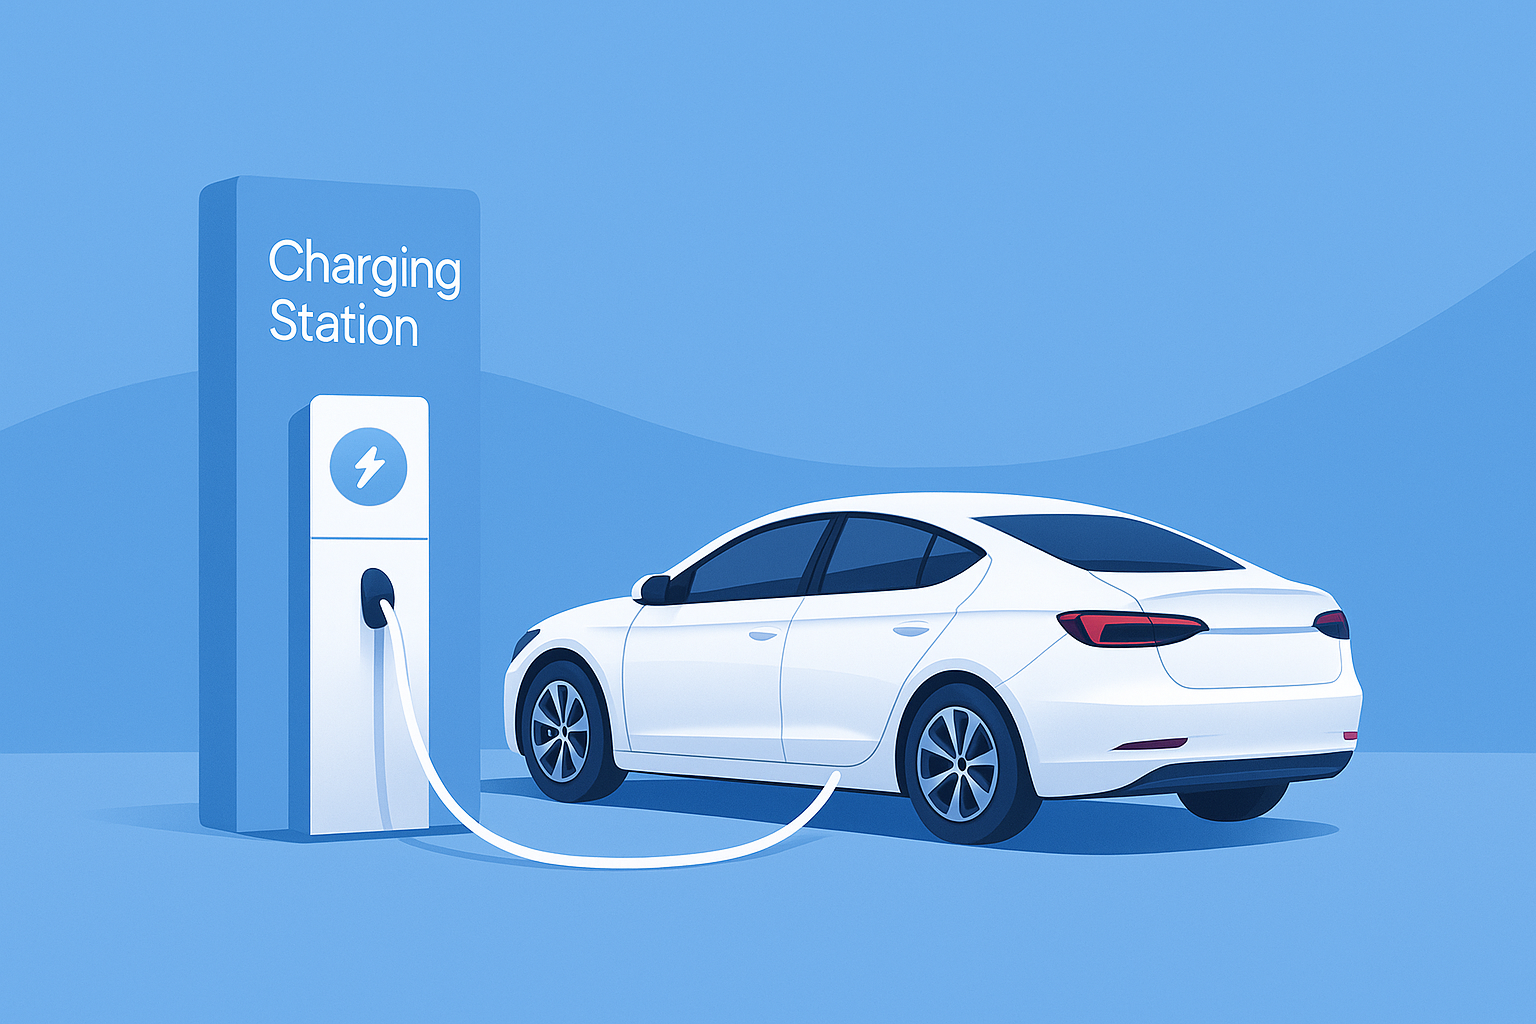
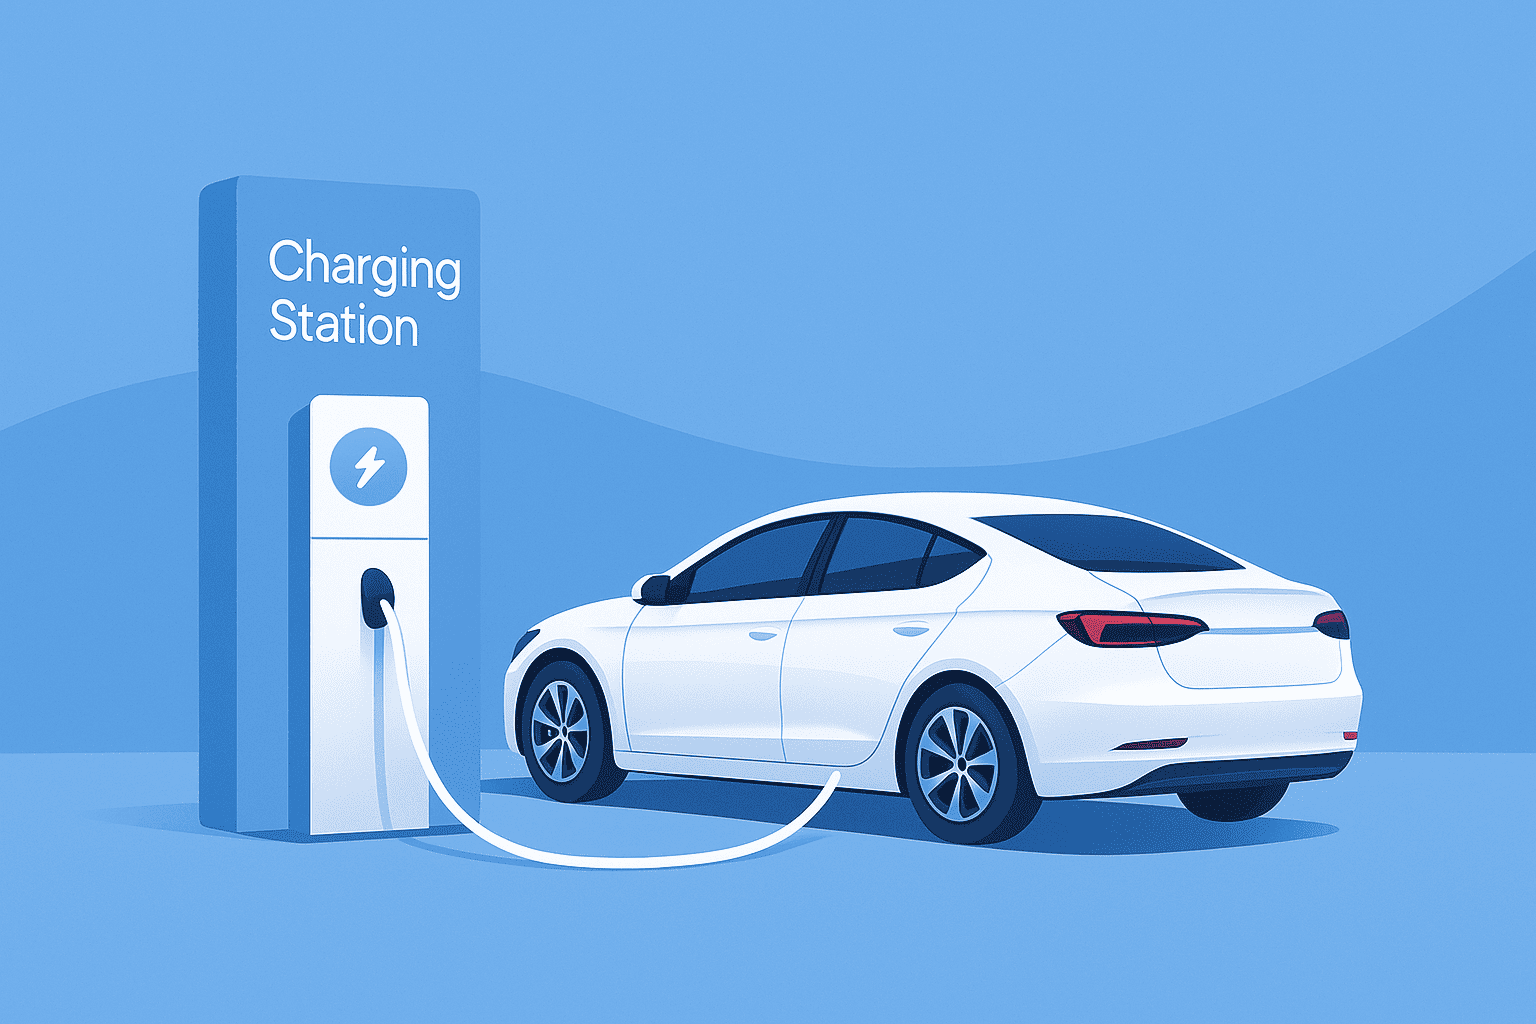
fix: images file format

diff --git a/src/pages/Index.tsx b/src/pages/Index.tsx
@@ -102,7 +102,7 @@ const Index: React.FC = React.memo(() => (
           </div>
           <div className='md:w-1/2 relative overflow-visible'>
             <img
-              src='/marketing1.png'
+              src='/marketing1.webp'
               alt='Electric Vehicle Charging'
               width={600}
               height={400}
@@ -174,7 +174,7 @@ const Index: React.FC = React.memo(() => (
           </div>
           <div className='md:w-1/2 animate-fade-in delay-200'>
             <img
-              src='/marketing2.png'
+              src='/marketing2.webp'
               alt='Zephyra Map Interface'
               loading='lazy'
               width={600}
